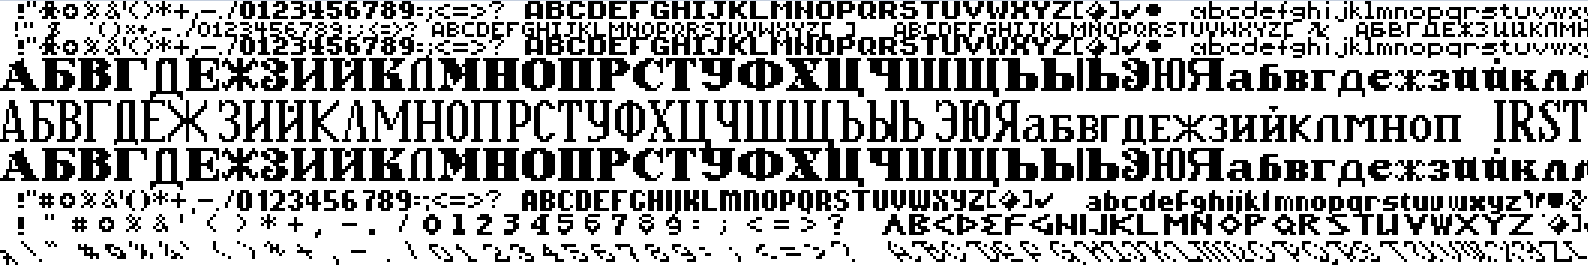
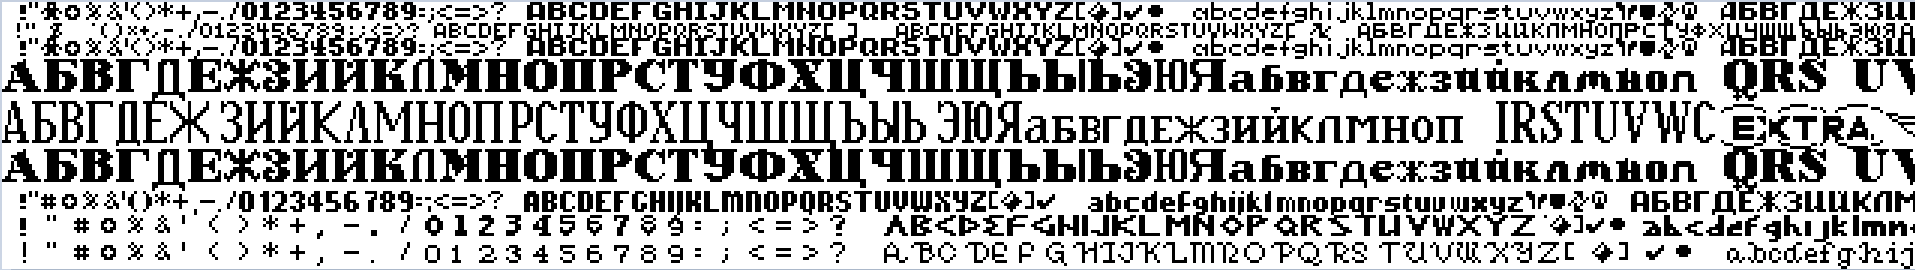
fix

diff --git a/src/main/java/ru/disasm/civ/font/CivFont.java b/src/main/java/ru/disasm/civ/font/CivFont.java
@@ -43,7 +43,7 @@ class CivFont {
                 }
                 int renderedWidth = symbolwidth-fontIntevalX;
                 int locX = 0;
-                while (locX<renderedWidth){
+                while (locX<renderedWidth && x<renderWidth){
                     int bit = ((0xff & fontSprite[pos])<<(innerpos+1)) & 0x100;
                     if (bit!=0){
                         bao.write(blackPal);
@@ -57,7 +57,7 @@ class CivFont {
                     x++;
                     locX++;
                 }
-                while (locX<symbolwidth){
+                while (locX<symbolwidth && x<renderWidth){
                     bao.write(whitePal);
                     locX++;
                     x++;
